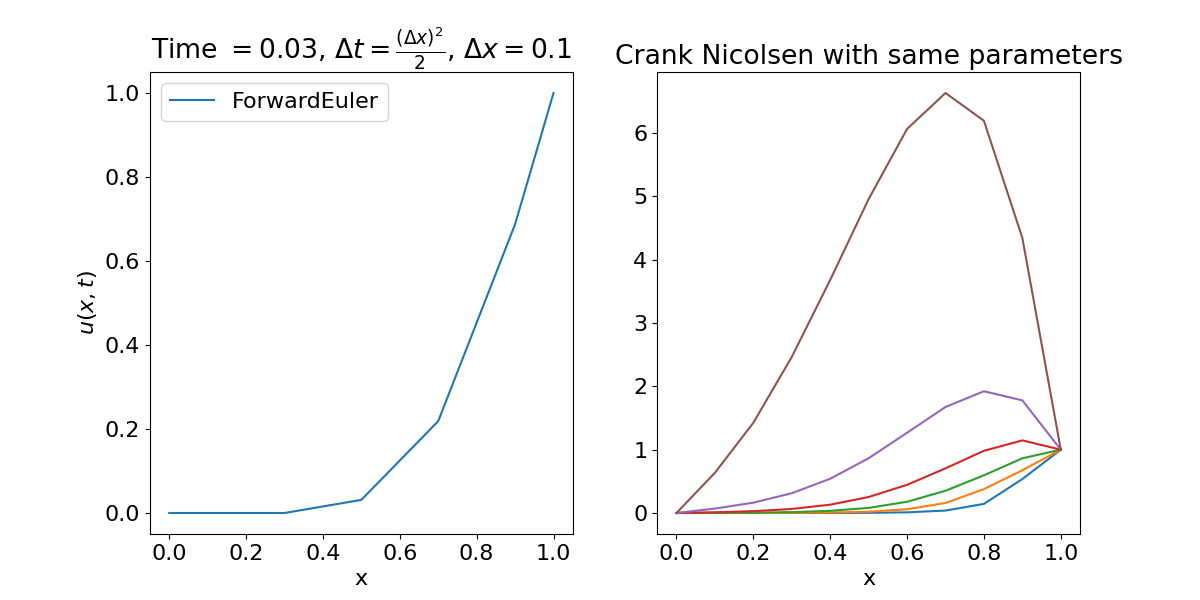
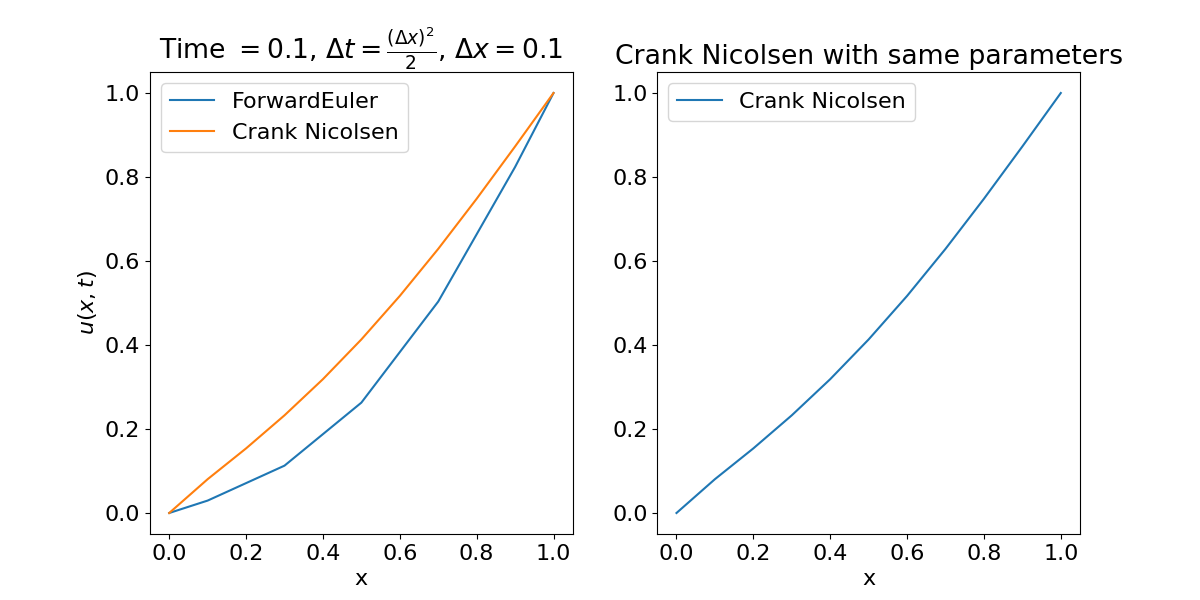
tirsdag

diff --git a/project5/5c.py b/project5/5c.py
@@ -7,39 +7,43 @@ plt.rcParams['font.size'] = 16
 dx = 0.1
 r=2
 dt = dx**2/r
-T_end = 0.03
-method = "ForwardEuler"
-#compile_func()
-run_func(T_end, dt, dx, method = "ForwardEuler")
-F_Euler = np.transpose(np.loadtxt("data_1D.txt"))[:,-1]
-run_func(T_end, dt, dx, method = "Crank_Nicolsen")
-CN = np.transpose(np.loadtxt("data_1D.txt"))
-print(F_Euler.shape, CN.shape)
-x = np.arange(0,1+dx,dx)
-
-fig, ax = plt.subplots(1,2,figsize = (12,6))
-ax[0].set_title(r'Time $=%g$, $\Delta t = \frac{(\Delta x)^2}{%g}$, $\Delta x = %g$' % (T_end, r, dx))
-ax[0].plot(x, F_Euler, label='ForwardEuler')
-#ax[0].plot(x, CN, label='Crank Nicolsen')
-ax[0].set_xlabel('x')
-ax[0].set_ylabel(r'$u(x,t)$')
-ax[0].legend()
-'''
-T_end = 0.1
+T_end = 0.02
 method = "ForwardEuler"
 #compile_func()
 run_func(T_end, dt, dx, method = "ForwardEuler")
 F_Euler = np.transpose(np.loadtxt("data_1D.txt"))[:,-1]
 run_func(T_end, dt, dx, method = "Crank_Nicolsen")
 CN = np.transpose(np.loadtxt("data_1D.txt"))[:,-1]
+run_func(T_end, dt, dx, method = "BackwardEuler")
+B_Euler = np.transpose(np.loadtxt("data_1D.txt"))[:,-1]
+
 x = np.arange(0,1+dx,dx)
 
-ax[1].set_title(r'Time $=%g$, $\Delta t = \frac{(\Delta)x^2}{%g}$, $\Delta x = %g$' % (T_end, r, dx))'''
-#ax[1].plot(x, F_Euler, label='ForwardEuler')
-ax[1].set_title('Crank Nicolsen with same parameters')
+fig, ax = plt.subplots(1,2,figsize = (12,6))
+ax[0].set_title(r'Time $=%g$, $\Delta t = \frac{(\Delta x)^2}{%g}$, $\Delta x = %g$' % (T_end, r, dx))
+ax[0].plot(x, F_Euler, label='ForwardEuler')
+ax[0].plot(x, CN, label='Crank Nicolsen')
+ax[0].plot(x, B_Euler, label='BackwardEuler')
+ax[0].set_xlabel('x')
+ax[0].set_ylabel(r'$u(x,t)$')
+ax[0].legend()
+
+T_end = 0.1
+run_func(T_end, dt, dx, method = "ForwardEuler")
+F_Euler = np.transpose(np.loadtxt("data_1D.txt"))[:,-1]
+run_func(T_end, dt, dx, method = "Crank_Nicolsen")
+CN = np.transpose(np.loadtxt("data_1D.txt"))[:,-1]
+run_func(T_end, dt, dx, method = "BackwardEuler")
+B_Euler = np.transpose(np.loadtxt("data_1D.txt"))[:,-1]
+x = np.arange(0,1+dx,dx)
+
+ax[1].set_title(r'Time $=%g$, $\Delta t = \frac{(\Delta)x^2}{%g}$, $\Delta x = %g$' % (T_end, r, dx))
+
+ax[1].plot(x, F_Euler, label='ForwardEuler')
 ax[1].plot(x, CN, label='Crank Nicolsen')
+ax[1].plot(x, B_Euler, label='BackwardEuler')
 ax[1].set_xlabel('x')
-#ax[1].legend()
-plt.savefig('CN_fail.png')
+ax[1].legend()
+plt.savefig('task_c.png')
 
 plt.show()

diff --git a/project5/PDE.cpp b/project5/PDE.cpp
@@ -25,12 +25,6 @@ void PDE::Initialise(double T_end, double dt, double dx){
   m_a = vec(m_Nx+1, fill::zeros);
   m_b = vec(m_Nx+1, fill::zeros);
   m_c = vec(m_Nx+1, fill::zeros);
-  for (int i = 0 ; i < m_Nx; i++){
-    m_a(i) = -m_alpha;
-    m_b(i) = 1.+2*m_alpha;
-    m_c(i) = -m_alpha;
-
-  }
   //m_u = vec(m_N+1, fill::zeros);
   //double v; //du/dt for implicit BackwardEuler
   //Praparing a file to write in.
@@ -58,6 +52,7 @@ void PDE::ForwardEuler(){
   }
 }
 
+
 void PDE::Solver(){
   //Forward part:
   for(int i = 1; i < m_Nx-1; i++){
@@ -72,19 +67,48 @@ void PDE::Solver(){
   }
 }
 
+void PDE::BackwardEuler(){
+  for (int i = 0 ; i < m_Nx; i++){
+    m_a(i) = -m_alpha;
+    m_b(i) = 1.+2*m_alpha; //why 1+2alpha here?
+    m_c(i) = -m_alpha;
+  }
+  Write_to_file();
+  for (int i=1; i<m_Nx-1;i++){ //not looping over the end points
+    //filling array with right hand side of equation
+    m_r(i) = (1.+2.*m_alpha)*m_u_old(i)-m_alpha*m_u_old(i+1)-m_alpha*m_u_old(i-1);
+  }
+  for (int ti=0; ti<m_Nt;ti++){
+    Solver();
+    Write_to_file();
+    for (int i=1; i<m_Nx-1;i++){ //not looping over the end points
+      //filling array with right hand side of equation
+      m_r(i) = m_u(i);
+      m_b(i) = 1.+2*m_alpha;
+    }
+  }
+}
+
 
 void PDE::Crank_Nicolsen(){
+  for (int i = 0 ; i < m_Nx; i++){
+    m_a(i) = -m_alpha;
+    m_b(i) = 2.+2*m_alpha;
+    m_c(i) = -m_alpha;
+  }
+  Write_to_file();
   for (int ti=0; ti<m_Nt;ti++){
     for (int i=1; i<m_Nx-1;i++){ //not looping over the end points
       //filling array with right hand side of equation
-      m_r(i) = m_alpha*m_u_old(i-1)+(1.-2.*m_alpha)*m_u_old(i) + m_alpha*m_u_old(i+1);
+      m_r(i) = m_alpha*m_u_old(i-1)+(2.-2.*m_alpha)*m_u_old(i) + m_alpha*m_u_old(i+1);
     }
     m_r(0) = 0;
     m_r(m_Nx)= 0;
     Solver();
     Write_to_file();
-    for (int xi=1; xi<m_Nx-1;xi++){
+    for (int xi=1; xi<m_Nx;xi++){
       m_u_old(xi) = m_u(xi);
+      m_b(xi) = 2.+2*m_alpha;
     }
   }
 }

diff --git a/project5/kladd.py b/project5/kladd.py
@@ -1,0 +1,29 @@
+import numpy as np
+from run import *
+import matplotlib.pyplot as plt
+from astropy import constants
+
+dx = 0.1
+r=2
+dt = dx**2/r
+T_end = 0.1
+method = "ForwardEuler"
+#compile_func()
+run_func(T_end, dt, dx, method = "ForwardEuler")
+F_Euler = np.transpose(np.loadtxt("data_1D.txt"))[:,-1]
+run_func(T_end, dt, dx, method = "Crank_Nicolsen")
+CN = np.transpose(np.loadtxt("data_1D.txt"))[:,-1]
+run_func(T_end, dt, dx, method = "BackwardEuler")
+B_Euler = np.transpose(np.loadtxt("data_1D.txt"))[:,-1]
+
+x = np.arange(0,1+dx,dx)
+
+plt.figure(figsize = (12,6))
+plt.title(r'Time $=%g$, $\Delta t = \frac{(\Delta x)^2}{%g}$, $\Delta x = %g$' % (T_end, r, dx))
+plt.plot(x, F_Euler, label='ForwardEuler')
+plt.plot(x, CN, label='Crank Nicolsen')
+plt.plot(x, B_Euler, label='BackwardEuler')
+plt.xlabel('x')
+plt.ylabel(r'$u(x,t)$')
+plt.legend()
+plt.show()

diff --git a/project5/main.cpp b/project5/main.cpp
@@ -26,6 +26,10 @@ int main(int argc, char *argv[]){
   if (method=="Crank_Nicolsen"){
     //double a = 1.;
     my_instance.Crank_Nicolsen();
-    }
+  }
+  if (method=="BackwardEuler"){
+    //double a = 1.;
+    my_instance.BackwardEuler();
+  }
   return 0;
 }

diff --git a/project5/PDE.hpp b/project5/PDE.hpp
@@ -26,7 +26,7 @@ public:
   void Initialise(double T_end, double dt, double dx);
   void ForwardEuler();
   void Solver();
-  void Thomas();
+  void BackwardEuler();
   void Crank_Nicolsen();
   void Write_to_file();
 };
